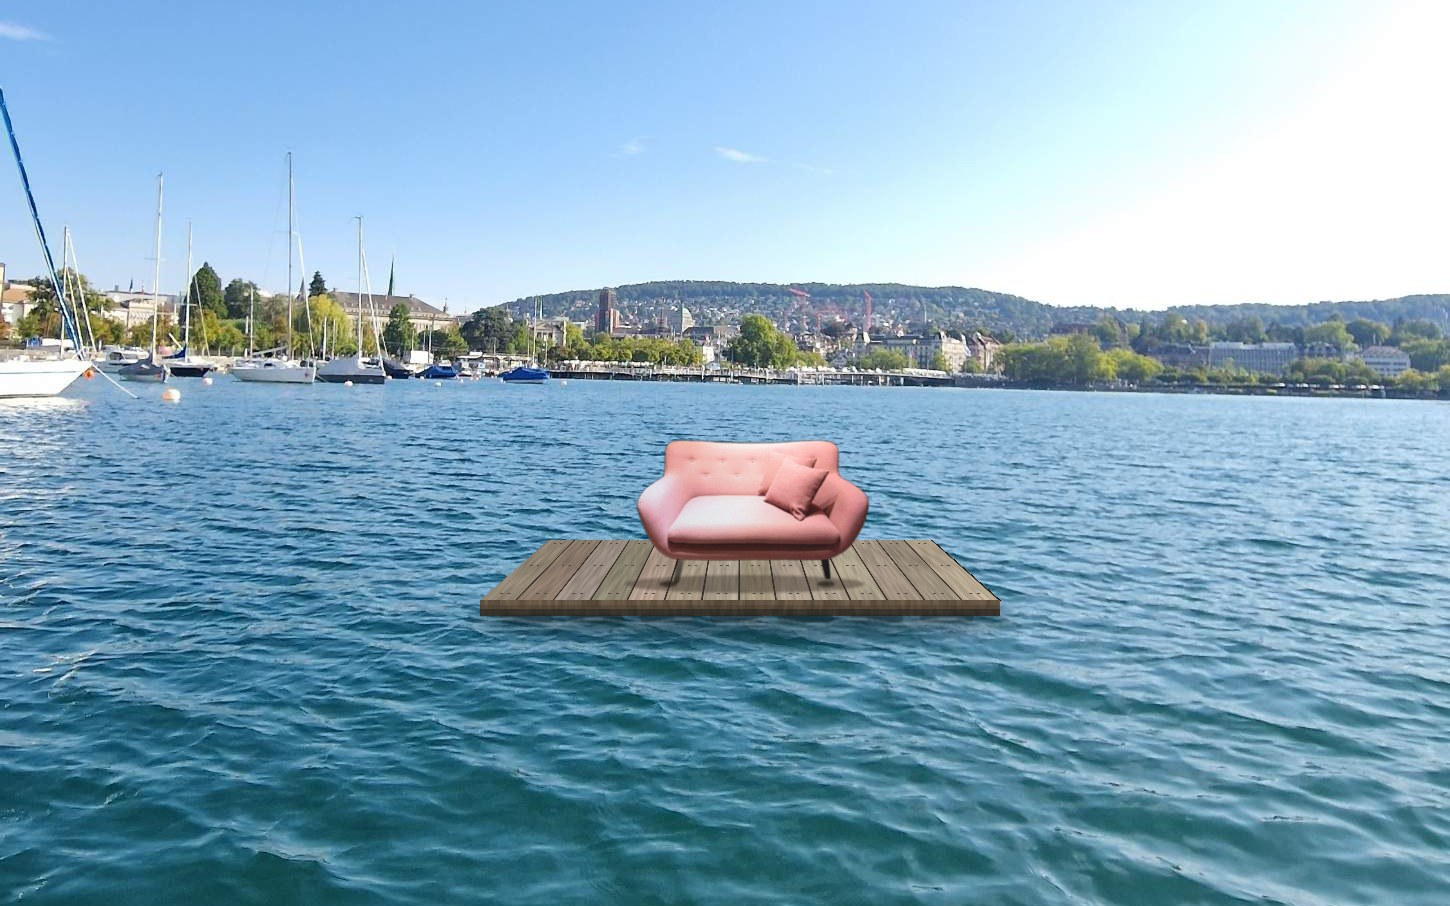
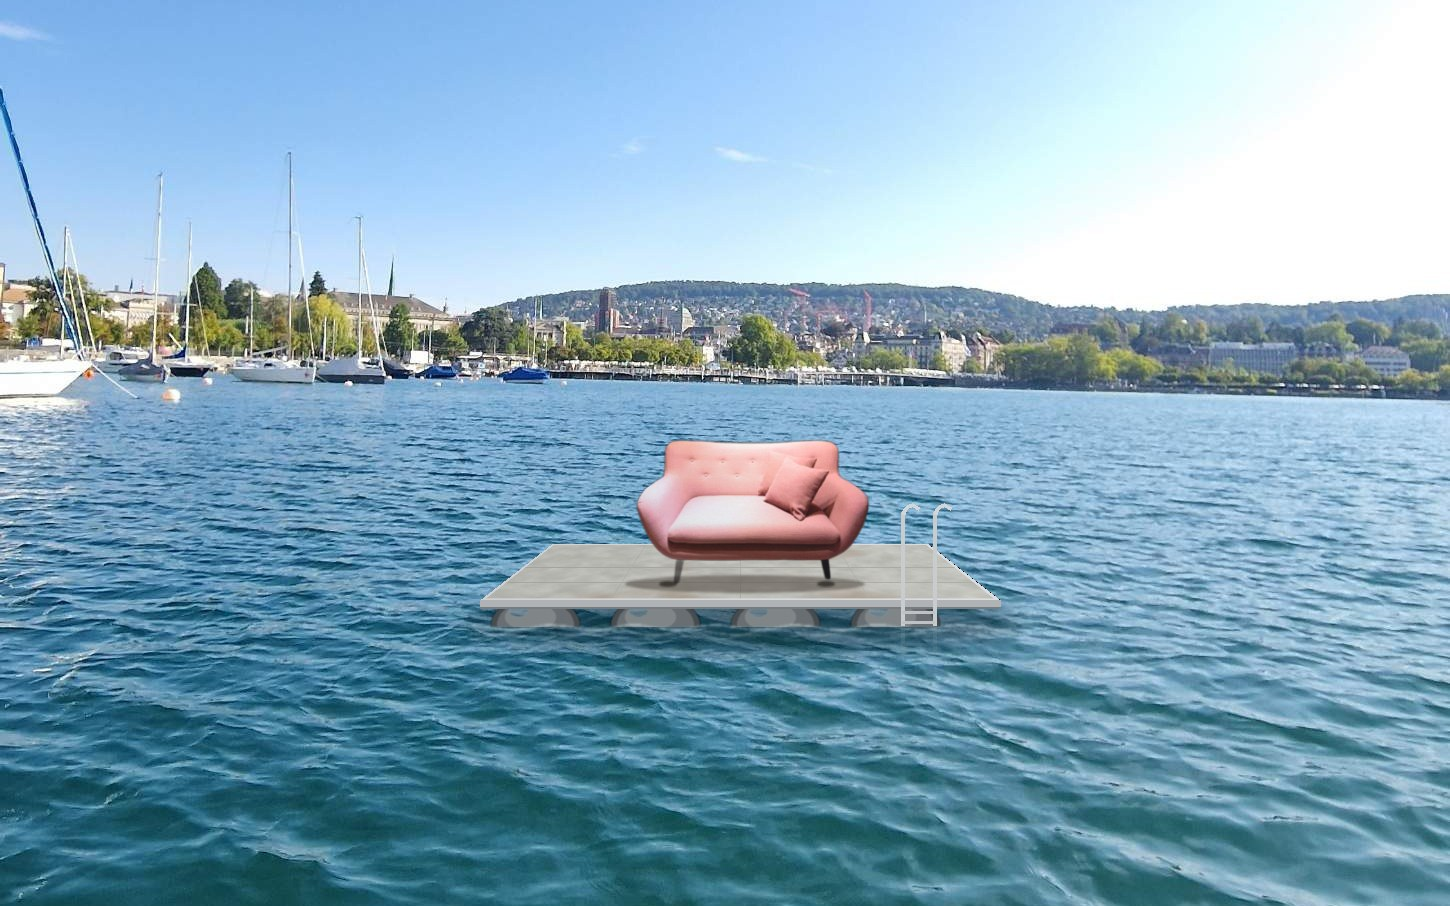
Rosarot: Badefloss mit Schwimmkörpern und Leiter
Claude-Session: https://claude.ai/code/session_01CY81N8Y93u8VmqGXdwvTqH

Changed region(s): [[0.3103, 0.5563, 0.7138, 0.7417]]

diff --git a/rosarot/index.html b/rosarot/index.html
@@ -325,8 +325,8 @@ body.ovo{overflow:hidden}
 <div class="works"><a class="wk" href="/images/nutrexin-novembermorgen.jpg" target="_blank" rel="noopener"><img src="/images/nutrexin-novembermorgen.jpg" alt="Nutrexin · Post" loading="lazy" decoding="async"><span>Nutrexin · Post</span></a><a class="wk" href="/images/nutrexin-vitamin-c.jpg" target="_blank" rel="noopener"><img src="/images/nutrexin-vitamin-c.jpg" alt="Nutrexin · Post" loading="lazy" decoding="async"><span>Nutrexin · Post</span></a><div class="wk"><video src="/videos/wakao-reel.mp4" poster="/images/wakao-poster.jpg" controls playsinline preload="none"></video><span>Hawlik · Reel</span></div><a class="wk" href="/images/aroa-giveaway.jpg" target="_blank" rel="noopener"><img src="/images/aroa-giveaway.jpg" alt="Aroā Jun · Giveaway" loading="lazy" decoding="async"><span>Aroā Jun · Giveaway</span></a><a class="wk" href="/images/Jun_Mojito_Idee.jpg" target="_blank" rel="noopener"><img src="/images/Jun_Mojito_Idee.jpg" alt="Aroā Jun · Idee" loading="lazy" decoding="async"><span>Aroā Jun · Idee</span></a><a class="wk" href="/images/wwb-posts.jpg" target="_blank" rel="noopener"><img src="/images/wwb-posts.jpg" alt="Was war bekannt?" loading="lazy" decoding="async"><span>Was war bekannt?</span></a></div>
 <div class="links"><a href="https://www.instagram.com/lerossi_visuals/" target="_blank" rel="noopener">Instagram @lerossi_visuals</a><a href="https://www.instagram.com/lerossiytb/" target="_blank" rel="noopener">Instagram @lerossiytb</a><a href="https://www.youtube.com/@_lerossi" target="_blank" rel="noopener">YouTube LeRossi</a><a href="https://nicolasrossi.ch/#portfolio" target="_blank" rel="noopener">Ganzes Portfolio</a></div>
 </template></section>
-<section class="ph st" id="idee" data-n="04"><div class="lbl"><b>04</b> Pitch für euch</div><div class="idp" role="button" tabindex="0"><div class="tp l"></div><div class="tp r"></div><img class="eiimg" src="rosa_ei.jpg?v=2" alt="Visualisierung: rosa Sofa auf einem Floss mitten auf dem Zürichsee" loading="lazy"><div class="ik">Pitch · Kunde: Rosarot &amp; What the Duck</div><div class="ih">Die rosa Stunde.<br>Nehmt Platz – wir haben <span>60 Minuten.</span></div><div class="is">Ein rosa Sofa · jeden Monat woanders · eine Stunde Kreativberatung</div><div class="isig">Nicolas Rossi <b>→</b> <i>Rosa</i>rot</div><span class="pin">Antippen</span></div><button type="button" class="more" data-ov="idee">Ein rosa Sofa taucht an den unmöglichsten Orten in Zürich auf – darauf bekommt ein Start-up eine Stunde Kreativberatung. <u>Mehr dazu →</u></button><template id="ov-idee"><div class="kl">04 · Pitch für euch</div>
-<img class="eiov" src="rosa_ei.jpg?v=2" alt="Visualisierung: das rosa Sofa auf dem Zürichsee"><h3>Die rosa Stunde. <y>Kunde: ihr.</y></h3>
+<section class="ph st" id="idee" data-n="04"><div class="lbl"><b>04</b> Pitch für euch</div><div class="idp" role="button" tabindex="0"><div class="tp l"></div><div class="tp r"></div><img class="eiimg" src="rosa_ei.jpg?v=3" alt="Visualisierung: rosa Sofa auf einem Floss mitten auf dem Zürichsee" loading="lazy"><div class="ik">Pitch · Kunde: Rosarot &amp; What the Duck</div><div class="ih">Die rosa Stunde.<br>Nehmt Platz – wir haben <span>60 Minuten.</span></div><div class="is">Ein rosa Sofa · jeden Monat woanders · eine Stunde Kreativberatung</div><div class="isig">Nicolas Rossi <b>→</b> <i>Rosa</i>rot</div><span class="pin">Antippen</span></div><button type="button" class="more" data-ov="idee">Ein rosa Sofa taucht an den unmöglichsten Orten in Zürich auf – darauf bekommt ein Start-up eine Stunde Kreativberatung. <u>Mehr dazu →</u></button><template id="ov-idee"><div class="kl">04 · Pitch für euch</div>
+<img class="eiov" src="rosa_ei.jpg?v=3" alt="Visualisierung: das rosa Sofa auf dem Zürichsee"><h3>Die rosa Stunde. <y>Kunde: ihr.</y></h3>
 <p>Ihr pitcht jeden Tag für andere – zuletzt erfolgreich für AutoScout24 Direct. Also dreh ich's um und pitche für euch. Und weil bei euch alles ein bisschen rosarot ist, gibt's ein rosa Sofa.</p>
 <div class="facts"><div><span>Idee</span><b>Einmal im Monat schenkt Rosarot einem jungen Zürcher Start-up eine Stunde Kreativberatung – auf einem rosa Sofa – jedes Mal an einem Ort, wo niemand ein Sofa erwartet.</b></div><div><span>Insight</span><b>Start-ups haben Ideen, aber kein Agenturbudget. Und Agenturen zeigen selten, wie sie eigentlich denken.</b></div><div><span>Ziel</span><b>Rosarot wird zur Adresse für junge Marken – und What the Duck hat jeden Monat starken Content.</b></div></div>
 <ul class="pts"><li><b>Das rosa Sofa wandert</b> – jeden Monat an einen anderen Ort: auf einem Floss mitten auf dem Zürichsee, zwischen den Pendlern in der Europaallee, im Chinagarten oder oben auf dem Hügel mit Blick über Zürich. Alle fragen sich: Was macht das Sofa da?</li><li><b>Teaser wie bei ACE2ACE</b> – eine Woche vorher Rätselplakate: «DAS R_SA S_FA K_MMT.» – es fehlt nur ein Buchstabe. Wo es auftaucht, verrät nur Instagram.</li><li><b>Live</b> – 60 Minuten Beratung auf dem Sofa, gefilmt. Daneben ein Countdown. Wer vorbeikommt, darf zuhören – am Ende wird die Idee vor Ort präsentiert.</li><li><b>Social</b> – What the Duck macht aus jeder Stunde ein Reel «Von 0 auf Idee in 60 Minuten». Bewerben können sich Start-ups per Story-Sticker.</li><li><b>Medien</b> – ein rosa Sofa auf dem Zürichsee ist ein Bild, das jede Zeitung bringen will. Dazu die Geschichte: Agentur schenkt Start-ups Ideen.</li></ul>
